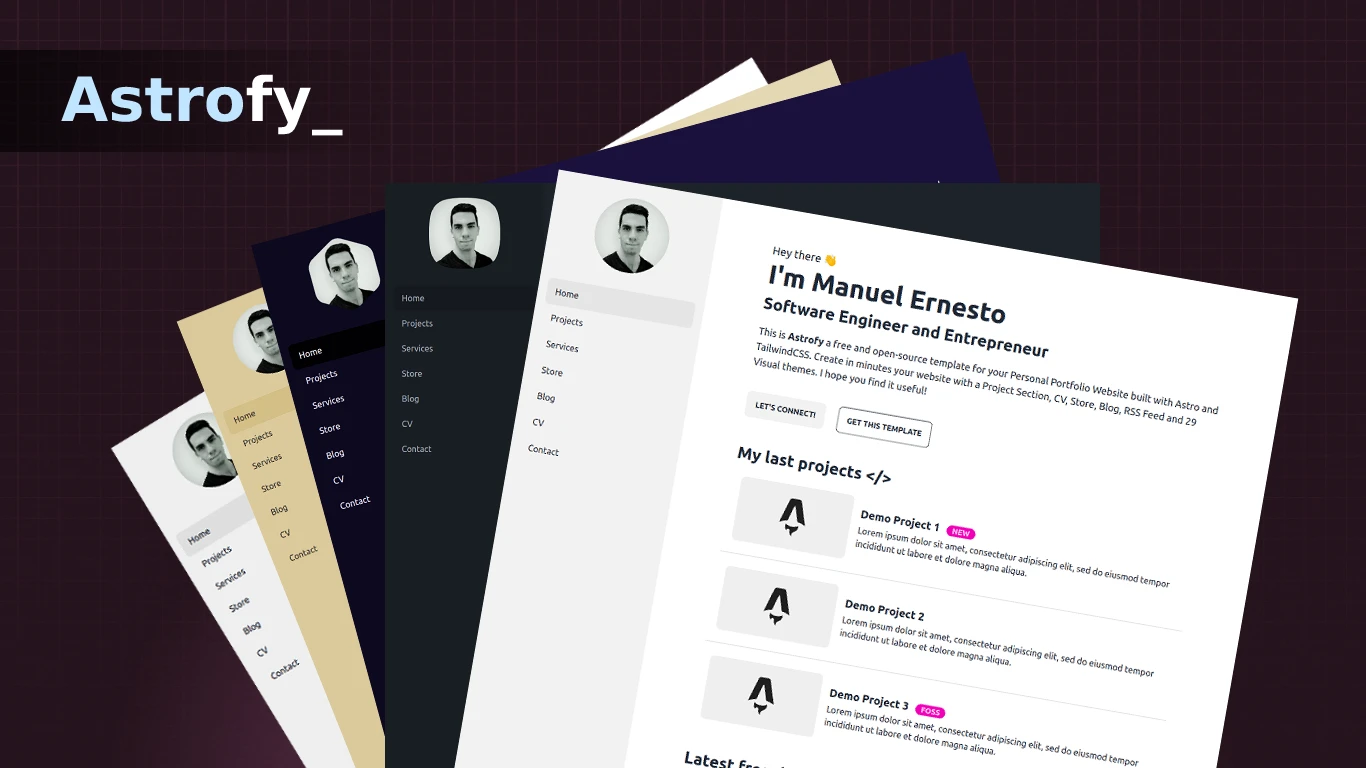
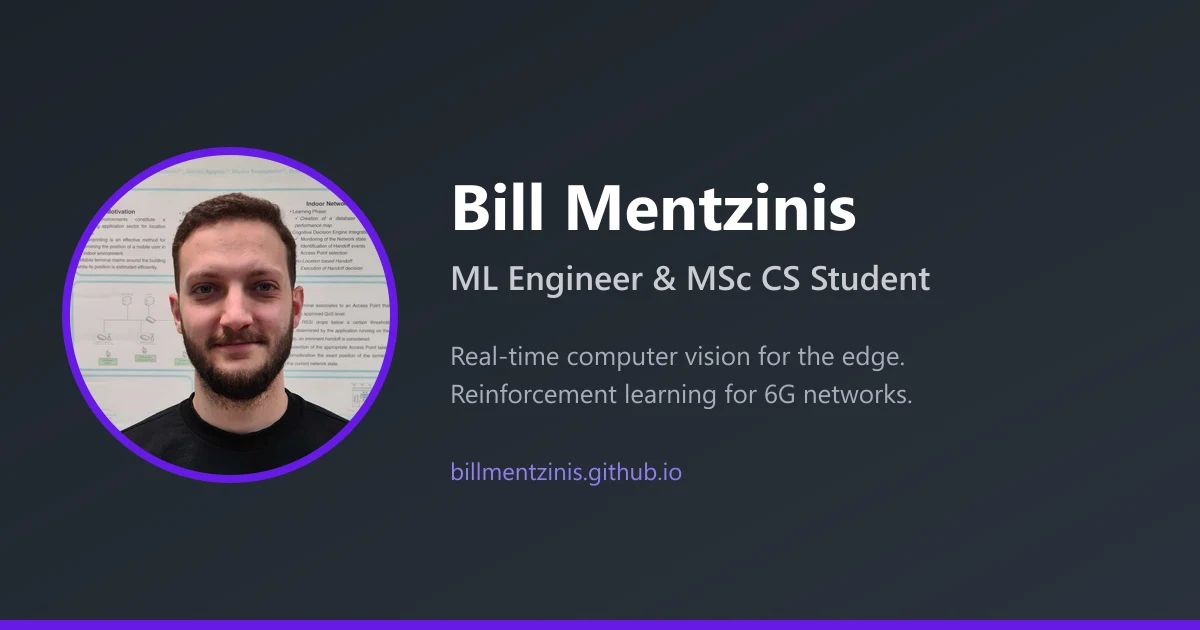
Update positioning and replace template branding
- New tagline and bio on Home and CV, aligned with the Nov 2026 CV
- Update SITE_DESCRIPTION to match
- Footer and mobile header now show Bill's name; keep a short Astrofy credit
- Replace Astrofy promo social preview with a custom 1200x630 banner
- Point robots.txt at this site's sitemap; rename package
- Log decisions in personalWebsitePlan.txt

diff --git a/src/config.ts b/src/config.ts
@@ -2,6 +2,6 @@
 // You can import this data from anywhere in your site by using the `import` keyword.
 
 export const SITE_TITLE = 'Vasileios (Bill) Mentzinis | ML Engineer';
-export const SITE_DESCRIPTION = 'Personal website of Vasileios (Bill) Mentzinis — ML Engineer and MSc Computer Science student at NKUA, researching Machine Learning applications in 6G networks, IoT, and Computer Vision.';
+export const SITE_DESCRIPTION = 'Personal website of Vasileios (Bill) Mentzinis, ML Engineer and MSc Computer Science student at NKUA, building reinforcement learning systems for 6G networks and real-time computer vision for the edge.';
 export const GENERATE_SLUG_FROM_TITLE = true
 export const TRANSITION_API = true
